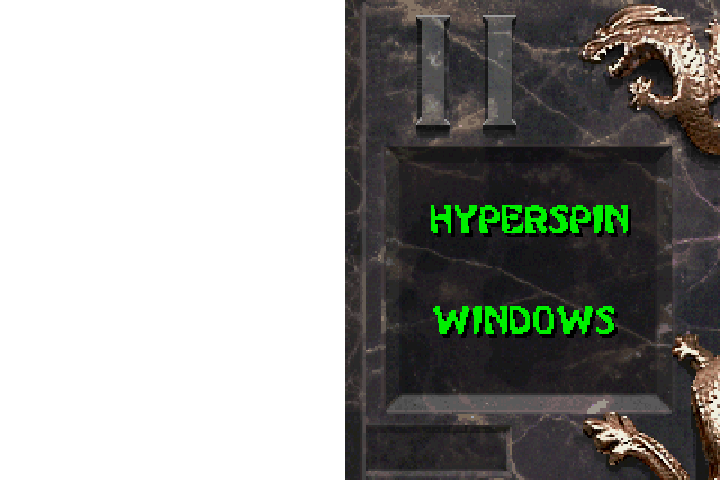
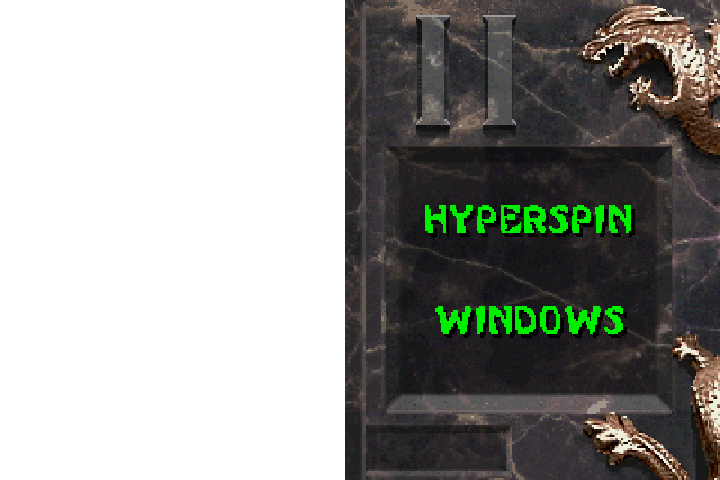
correções

Changed region(s): [[0.6111, 0.625, 0.8861, 0.7188], [0.5806, 0.4062, 0.7639, 0.5], [0.7944, 0.4062, 0.8861, 0.5]]

diff --git a/build/menu.js b/build/menu.js
@@ -4,7 +4,7 @@ $(document).ready(function ($) {
   var selecionado = false;
   var shutdown = false;
   var stopCounter = false;
-  var cancelType = 1;
+  var cancelType = 2;
   var operacao = 0;
   var keys = {
     downP2: false,
@@ -278,10 +278,13 @@ $(document).ready(function ($) {
   function countDown() {
     var timeleft = 5;
     $("#countdownCenter").text("5");
-    $("#countdownCenter").attr('data-text', $("#countdownCenter").text());
+    $("#countdownCenter").attr('data-text', $("#countdowntimer").text());
+    $("#countdowntimer").text("5");
+    $("#countdowntimer").attr('data-text', $("#countdowntimer").text());
+    document.getElementById("pTop").value = 5;
     var downloadTimer = setInterval(function(){
       if (stopCounter == true) {
-        document.getElementById("progressBar").value = 5;
+        document.getElementById("pTop").value = 5;
         document.getElementById("countdowntimer").textContent = 5;
         document.getElementById("countdownCenter").textContent = 5;
         $("#countdowntimer").attr('data-text', 5);
@@ -291,20 +294,21 @@ $(document).ready(function ($) {
       }
 
  //   document.getElementById("progressBar").value = 5 - --timeleft;  //barra progressiva
-    document.getElementById("progressBar").value  = --timeleft;
+    document.getElementById("pTop").value  = --timeleft;
     document.getElementById("countdowntimer").textContent = timeleft;
     document.getElementById("countdownCenter").textContent = timeleft;
     $("#countdowntimer").attr('data-text', timeleft);
     $("#countdownCenter").attr('data-text', timeleft);
     if(timeleft <= 0) {
       $("#pbText").text(operacao == 1 ? "SHUTTING DOWN..." : "RESTARTING OS...");
+      $('.bottomText').transition({ 'visibility': 'visible', easing: 'snap', duration: 1 });
       $("#pbText").attr('data-text', $("#pbText").text()); 
       $("#countdowntimer").hide();    
       clearInterval(downloadTimer);
       const {
         exec
       } = require('child_process');
-      exec(operacao == 1 ? /* 'c:/windows/system32/calc.exe' : 'c:/windows/system32/notepad.exe' */ 'shutdown -s -f -t 00' : 'shutdown -r -f -t 00' , (error, stdout, stderr) => {
+      exec(operacao == 1 ? 'c:/windows/system32/calc.exe' : 'c:/windows/system32/notepad.exe' /* 'shutdown -s -f -t 00' : 'shutdown -r -f -t 00' */ , (error, stdout, stderr) => {
         if (error) {
           console.error(`exec error: ${error}`);
           return;
@@ -326,25 +330,39 @@ $(document).ready(function ($) {
 
       }
       countDown();
-      if(cancelType == 2) {
-        $("#pbText").removeClass("pbTextDefault");
-        $("#pbText").addClass("pbText");
+      $("#countdown").show();
+      $("#progressContent").show();
+
+      $("#pbText").removeClass("pbTextDefault");
+      $("#pbText").addClass("pbText");
+      $('.bottomText').transition({ 'visibility': 'visible', easing: 'snap', duration: 1 });
+      if(cancelType == 2 || menu == 'snes') {
         $("#pbText").text(operacao == 1 ? "SHUTDOWN IN " : "RESTART IN ");
         $("#pbText").attr('data-text', $("#pbText").text());
         $("#countdowntimer").show();
-        $("#countdown").show();
-        $("#progressContent").show();
-        $("#countdownCenter").hide();
-
+        $("#countdownCenter").hide(); 
+        $("#cancel").removeClass( "cancelPowerOff");
+        $("#cancel").removeClass( "cancelRestart");
+        $("#cancel").addClass( "cancelType1");
       } else {
-        $("#cancel").addClass(operacao == 1 ? "cancelPowerOff" : "cancelRestart" );
         $("#countdownCenter").show();
-        animateCountDown();
+        $("#pbText").text(operacao == 1 ? "SHUTTING DOWN..." : "RESTARTING...");
+        $("#pbText").attr('data-text', $("#pbText").text());
+        $("#cancel").removeClass( "cancelType1");
+        $("#cancel").removeClass( "cancelPowerOff");
+        $("#cancel").removeClass( "cancelRestart");
+        $("#cancel").addClass(operacao == 1 ? "cancelPowerOff" : "cancelRestart" );
       }
 
-      $("#cancel").transition({ 'visibility': 'visible', easing: 'ease', duration: 500 });
-      $('.bottomText').transition({ 'visibility': 'visible', easing: 'snap', duration: 1 });
+      $("#cancel").transition({ 'visibility': (menu == 'default' ? 'visible' : 'hidden') , easing: 'ease', duration: 500 });
 
+      if (menu == 'snes') {
+        $('.bottomText').css({ "top" : "402px"});
+        $('.countdown').css({ "top" : "402px"});
+        $('.progressContent').css({ "top" : "405px"});
+      } else{
+        animateCountDown();
+      }
 
   
   }
@@ -594,23 +612,25 @@ function animateShaoKahn() {
    if (e.which != 38 && e.which != 40 && e.which != 37 && e.which != 39 &&
     e.which != 82 && e.which != 70 && e.which != 68 && e.which != 71) {
       stopCounter = true;
-      if (menu == 'snes') {
-        $('.bottomText').transition({ 'visibility': 'hidden', easing: 'snap', duration: 1 });
-      } else {
-        $("#pbText").removeClass("pbText");
-        $("#pbText").addClass("pbTextDefault");
-        $("#pbText").text("CHOOSE YOUR DESTINY");
-        $("#pbText").attr('data-text', $("#pbText").text());
         $("#cancel").transition({ 'visibility': 'hidden', easing: 'snap', duration: 1 });
         $(".bordaPiscante").css({ "display" : "inline"});
-      }
+        $('.bottomText').transition({ 'visibility': (menu == 'default' ? 'visible' : 'hidden' ), easing: 'snap', duration: 1 });
+        if (menu != 'snes') {
+          $("#pbText").text("CHOOSE YOUR DESTINY");
+          $("#pbText").removeClass("pbText");
+          $("#pbText").addClass("pbTextDefault");
+          $("#pbText").attr('data-text', $("#pbText").text());
+        }
+        
+        
+
       selecionado = false;
       $("#progressContent").hide();
       $("#countdowntimer").hide();
       $("#countdown").hide();
       $("#element" + posicao).removeClass("selecionado");
       $("#element" + posicao).addClass("bordaPiscante");
-      $("progressBar").val(0);
+      $("pTop").val(0);
 
 
       cancel.play();
@@ -717,6 +737,7 @@ function animateShaoKahn() {
         keys["startP2"] = true;
       }
       if (keys["downP2"] && keys["startP2"]) {
+        cancelType = cancelType == 1 ? 2 : 1;
         startCharAnimations('toasty');
       } else {
 
@@ -768,8 +789,19 @@ function animateShaoKahn() {
           } else if (e.which === 49) {
             document.removeEventListener('keydown', keyDown, false);
             operacao = 3;
+
             $("#pbText").text("STARTING MK II...");
             $("#pbText").attr('data-text', $("#pbText").text());
+
+            if (menu == 'snes') {
+              $('.bottomText').css({ "top" : "402px"});
+              $(".bottomText").css({'visibility': 'visible'});
+              if ($("#pbText").hasClass("pbText")) {
+                $("#pbText").removeClass("pbText");
+                $("#pbText").addClass("pbTextDefault");
+              }
+            }
+
             selected.play();
             //  Math.floor(Math.random() * (max - min + 1)) + min;
             loadShaoKahnSound();
@@ -795,6 +827,19 @@ function animateShaoKahn() {
           } else if (e.which === 49) {
             document.removeEventListener('keydown', keyDown, false);
             operacao = 4;
+
+            $("#pbText").text("STARTING HYPERSPIN...");
+            $("#pbText").attr('data-text', $("#pbText").text());
+
+            if (menu == 'snes') {
+              $('.bottomText').css({ "top" : "402px"});
+              $(".bottomText").css({'visibility': 'visible'});
+              if ($("#pbText").hasClass("pbText")) {
+                $("#pbText").removeClass("pbText");
+                $("#pbText").addClass("pbTextDefault");
+              }
+            }
+
             selected.play();
             //  Math.floor(Math.random() * (max - min + 1)) + min;
             loadShaoKahnSound();
@@ -819,6 +864,19 @@ function animateShaoKahn() {
           } else if (e.which === 49) {
             document.removeEventListener('keydown', keyDown, false);
             operacao = 5;
+            $("#pbText").text("STARTING WINDOWS...");
+            $("#pbText").attr('data-text', $("#pbText").text());
+
+            if (menu == 'snes') {
+              $('.bottomText').css({ "top" : "402px"});
+              $(".bottomText").css({'visibility': 'visible'});
+
+              if ($("#pbText").hasClass("pbText")) {
+                $("#pbText").removeClass("pbText");
+                $("#pbText").addClass("pbTextDefault");
+              }
+            }
+
             selected.play();
             loadShaoKahnSound();
             animateSelected();

diff --git a/index.html b/index.html
@@ -27,10 +27,10 @@
 
         .bottomText {
             position: absolute;
-            top: 430px;
+            top: 435px;
             left: 245px;
             width: 270px;
-            z-index: 100;
+            z-index: -1;
             text-align: center;
             font-family: 'MK1';
             font-size: 26px;
@@ -42,6 +42,7 @@
           -webkit-background-clip: text;
           -webkit-text-fill-color: transparent;
           position:relative;
+          top: -4px;
           text-align: center;
           font-size: 28px !important;
           font-family: 'MK2' !important;
@@ -51,7 +52,7 @@
           content: attr(data-text);
           left: 0;
           position: absolute;
-          text-shadow: 1px 1px #420000;
+          text-shadow: 1px -2px #420000;
           top: 0;
           z-index: -1;
         }
@@ -59,7 +60,7 @@
         .pbTextDefault {
           color: #FFFF00;
           text-shadow: 2px 2px black;
-          top: 3px;
+          top: -2px;
           position: relative;
         }
 
@@ -164,7 +165,7 @@
             overflow: hidden !important; 
             float: left; 
             position: fixed; 
-            z-index: 2; 
+            z-index: -7; 
         } 
           
         .blocoDireito { 
@@ -172,7 +173,7 @@
             overflow: hidden !important; 
             float: right; 
             position: fixed; 
-            z-index: 1; 
+            z-index: -8; 
         } 
 
         .toasty {
@@ -241,21 +242,21 @@
           display: none;
         }
 
-        progress {
+        #progressBar progress {
           -webkit-appearance: none;
           appearance: none;
           width: 280px;
-          height: 40px;
+          height: 31px;
         }
 
-        progress::-webkit-progress-bar {
+        #progressBar progress::-webkit-progress-bar {
           background-color: transparent !important;
           border: 5px solid transparent;
           border-image: url(pb-border2.png) 8 round;
 
         }
-        progress::-webkit-progress-value {
-          background-color: green;
+        #progressBar progress::-webkit-progress-value {
+          background-color: transparent;
   /*           background-image:
           -webkit-linear-gradient(-45deg, 
                                   transparent 33%, rgba(0, 0, 0, .1) 33%, 
@@ -264,27 +265,55 @@
                                   rgba(255, 255, 255, .25), 
                                   rgba(0, 0, 0, .25)),
           -webkit-linear-gradient(left, green, #f44); */
+          z-index: 5;
+          background-size: 35px 20px, 100% 100%, 100% 100%;
+        }
 
+        #progressBar {
+          z-index: 6;
+        }
+
+        #progressTop {
+          position: relative;
+          top: -41px;
+          z-index: -2;
+          left: -1px;
+        }
+
+        #progressTop progress {
+          -webkit-appearance: none;
+          appearance: none;
+          width: 281px;
+          height: 31px;
+        }
+
+        #progressTop progress::-webkit-progress-bar {
+          background-color: transparent !important;
+          border: 5px solid transparent;
+
+        }
+        #progressTop progress::-webkit-progress-value {
+          background-color: green;
+          z-index: 5;
           background-size: 35px 20px, 100% 100%, 100% 100%;
         }
 
         .progressContent {
-          background-image: 
-          -webkit-linear-gradient(#520000 3px, #C70000 2px, #420000 30px);
+          background-image: -webkit-linear-gradient(#520000 3px, #C70000 5px, #420000 30px);
           width: 271px;
-          height: 34px;
-          z-index: 4;
+          height: 26px;
+          z-index: -3;
           position: absolute;
-          top: 434px;
+          top: 438px;
           left: 245px;
           display: none;
         }
 
         .countdown {
           position: absolute;
-          top: 430px;
+          top: 435px;
           left: 240px;
-          z-index: 5;
+         /*  z-index: 5; */
           width: 200px;
           height: 30px;
           font-size: 26px;
@@ -318,6 +347,10 @@
 
        .cancelRestart{
           background-image: url("mk2cancel2.png") !important;
+        }
+
+        .cancelType1{
+          background-image: url("mk2cancel1.png") !important;
         }
 
        #countdownCenter{
@@ -376,9 +409,8 @@
         </div>
         <div class="countdown"
              id="countdown">
-          <progress id="progressBar"
-               max="5"
-               value="5"></progress>
+          <div id="progressBar"><progress id= "pBar" max="5" value="5"></progress> </div>    
+          <div id="progressTop"><progress id= "pTop" max="5" value="5"></progress> </div>         
         </div>
         <div class="progressContent"
              id="progressContent"></div><!-- <button type="button" id="btnTeste" class="btn">Shao Kahn</button> -->
